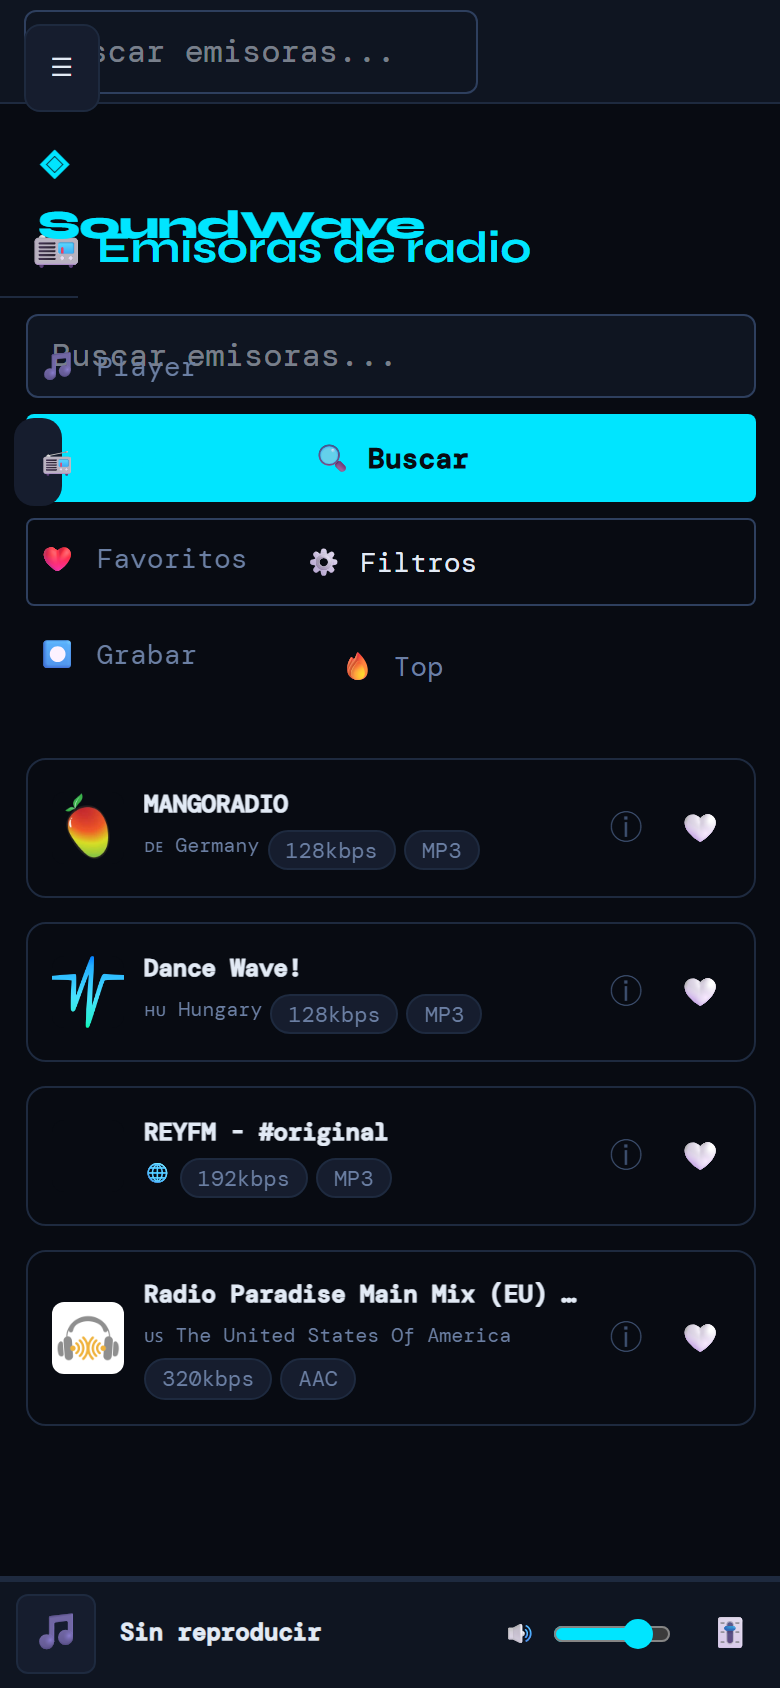
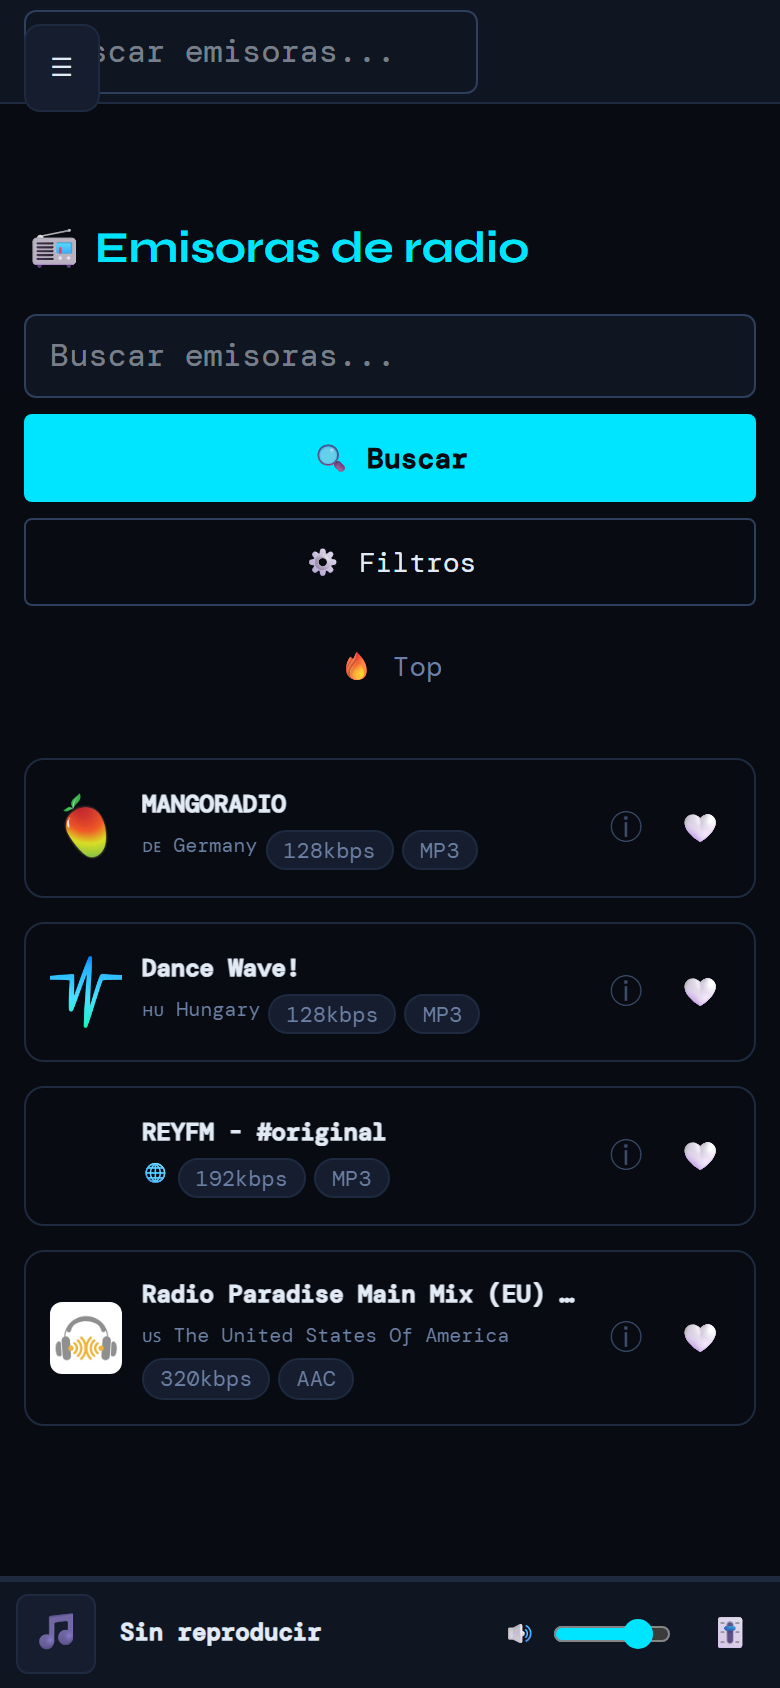
fix: corrige overlap del sidebar móvil y bugs del script de capturas
- Sidebar.tsx/globals.css: los estilos inline (width/position) ganaban
  especificidad sobre las media queries móviles, dejando el aside sin
  posicionar fuera de pantalla - el drawer se solapaba con el contenido
  en mobile.png. Movido width/position a una regla base en globals.css.
- e2e: nuevo test que fija el aside fuera de viewport cuando esta cerrado
  en mobile (390px).
- screenshots.mjs: shrinkIfNeeded ahora escribe a un fichero temporal
  (sharp no permite mismo path de entrada/salida); el preview server ya
  no queda huerfano si falla el arranque o el launch de Chromium; se
  elimina la captura theme-dark.png, redundante con radio.png (mismo
  estado, mismo byte a byte) y ambos README referencian radio.png
  para el tema oscuro.
- README/README.es: corrige el pie del hueco 'Reproductor local /
  Favoritos' a solo 'Reproductor local' (Favoritos no aparece en la
  captura real).

diff --git a/e2e/smoke.spec.ts b/e2e/smoke.spec.ts
@@ -27,6 +27,16 @@ test('switching theme updates data-theme on <html>', async ({ page }) => {
   await expect(html).toHaveAttribute('data-theme', 'neon');
 });
 
+test('mobile sidebar stays off-screen when closed', async ({ page }) => {
+  await page.setViewportSize({ width: 390, height: 844 });
+  await page.goto('/radio');
+  await expect(page.getByText('Emisoras de radio')).toBeVisible();
+
+  const logoBox = await page.locator('aside h1').boundingBox();
+  expect(logoBox).not.toBeNull();
+  expect(logoBox!.x + logoBox!.width).toBeLessThanOrEqual(0);
+});
+
 test('a non-existent station uuid does not crash the radio page', async ({ page }) => {
   const errors: string[] = [];
   page.on('pageerror', (err) => errors.push(err.message));

diff --git a/src/shared/components/layout/Sidebar.tsx b/src/shared/components/layout/Sidebar.tsx
@@ -55,15 +55,12 @@ export function Sidebar() {
 
       <aside
         style={{
-          width: 'var(--sidebar-width)',
           background: 'var(--bg-surface)',
           borderRight: '1px solid var(--border-subtle)',
           display: 'flex',
           flexDirection: 'column',
           padding: '16px 0',
           height: '100%',
-          flexShrink: 0,
-          position: 'relative',
         }}
         className={isOpen ? 'sidebar-open' : ''}
       >

diff --git a/src/styles/globals.css b/src/styles/globals.css
@@ -74,6 +74,12 @@ h1, h2, h3, h4 {
   font-family: var(--font-display);
 }
 
+aside {
+  width: var(--sidebar-width);
+  position: relative;
+  flex-shrink: 0;
+}
+
 :focus-visible {
   outline: 2px solid var(--accent-primary);
   outline-offset: 2px;

diff --git a/README.es.md b/README.es.md
@@ -30,8 +30,8 @@ Reproductor de música y radio por internet moderno y minimalista.
 
 | | |
 |---|---|
-| **Ecualizador** ![Ecualizador](docs/screenshots/equalizer.png) | **Reproductor local / Favoritos** ![Reproductor local](docs/screenshots/player.png) |
-| **Tema Dark** ![Tema Dark](docs/screenshots/theme-dark.png) | **Tema Light** ![Tema Light](docs/screenshots/theme-light.png) |
+| **Ecualizador** ![Ecualizador](docs/screenshots/equalizer.png) | **Reproductor local** ![Reproductor local](docs/screenshots/player.png) |
+| **Tema Dark** ![Tema Dark](docs/screenshots/radio.png) | **Tema Light** ![Tema Light](docs/screenshots/theme-light.png) |
 | **Tema Neon** ![Tema Neon](docs/screenshots/theme-neon.png) | **Vista móvil** ![Vista móvil](docs/screenshots/mobile.png) |
 
 ## Stack Tecnológico

diff --git a/README.md b/README.md
@@ -30,8 +30,8 @@ A modern, minimalist local music player and internet radio app.
 
 | | |
 |---|---|
-| **Equalizer** ![Equalizer](docs/screenshots/equalizer.png) | **Local player / Favorites** ![Local player](docs/screenshots/player.png) |
-| **Dark theme** ![Dark theme](docs/screenshots/theme-dark.png) | **Light theme** ![Light theme](docs/screenshots/theme-light.png) |
+| **Equalizer** ![Equalizer](docs/screenshots/equalizer.png) | **Local player** ![Local player](docs/screenshots/player.png) |
+| **Dark theme** ![Dark theme](docs/screenshots/radio.png) | **Light theme** ![Light theme](docs/screenshots/theme-light.png) |
 | **Neon theme** ![Neon theme](docs/screenshots/theme-neon.png) | **Mobile view** ![Mobile view](docs/screenshots/mobile.png) |
 
 ## Tech Stack
